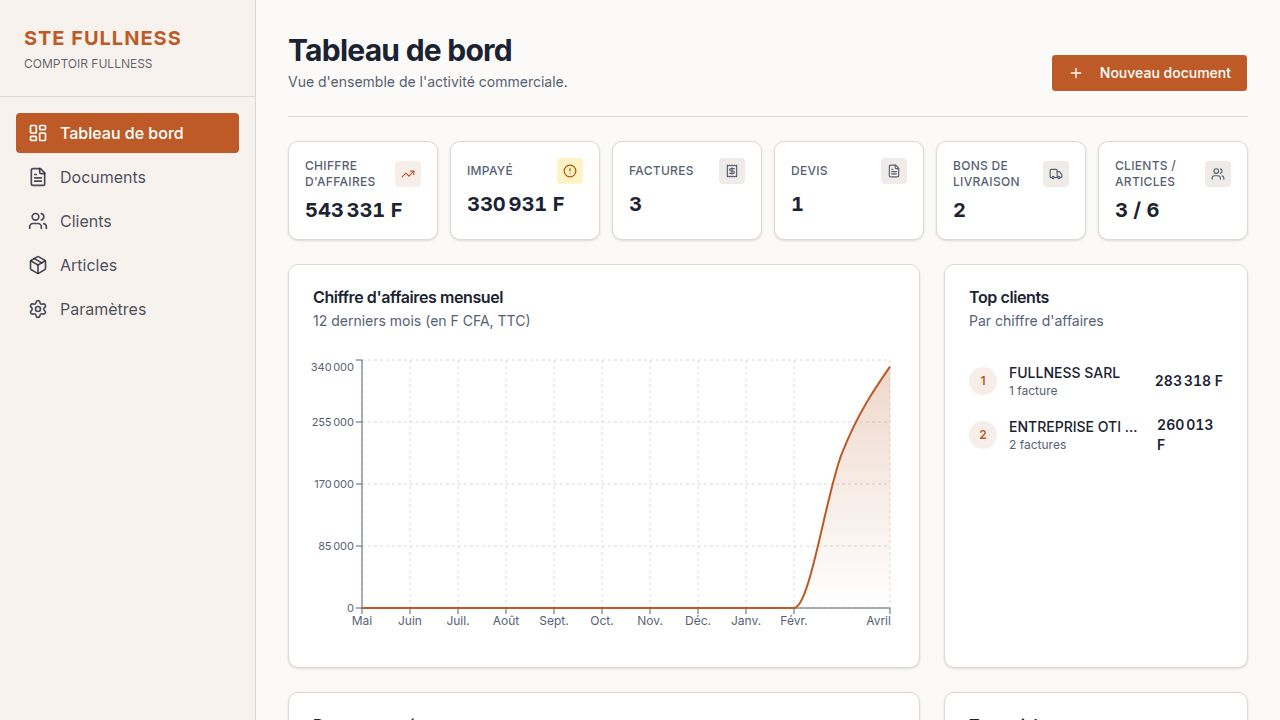
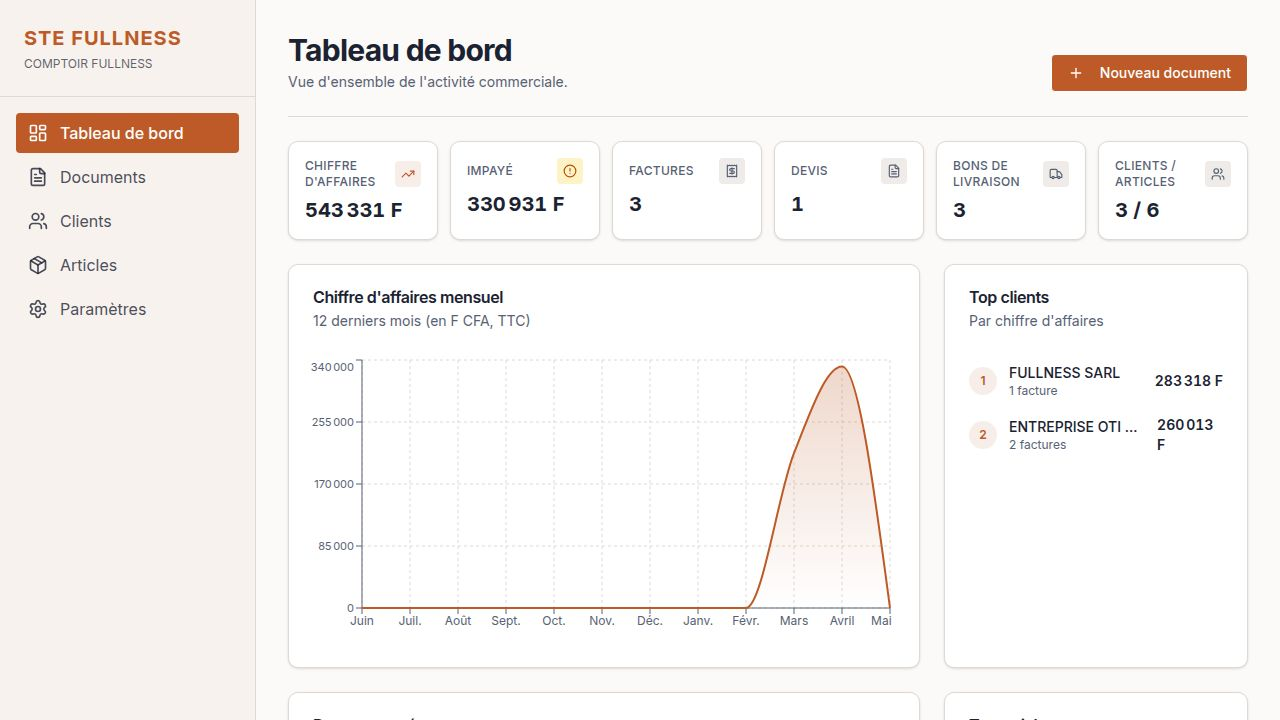
Adjust document print layout to remove TTC price and add TVA percentage
Update print.tsx to remove the PRIX TTC column and reposition the TVA% column after MONTANT HT, adjusting spacer colSpan accordingly.

Replit-Commit-Author: Agent
Replit-Commit-Session-Id: e7d28bcd-8ab8-4950-ac75-5c649883a866
Replit-Commit-Checkpoint-Type: full_checkpoint
Replit-Commit-Event-Id: 750316b9-a37b-468f-b167-56cba7b72282
Replit-Commit-Screenshot-Url: https://storage.googleapis.com/screenshot-production-us-central1/0f608575-ee4e-4d10-a3b1-2b933b149d0d/e7d28bcd-8ab8-4950-ac75-5c649883a866/1pkyckc
Replit-Helium-Checkpoint-Created: true

Changed region(s): [[0.5938, 0.5194, 0.7188, 0.7944], [0.5, 0.825, 0.6875, 0.8861], [0.2812, 0.8556, 0.4688, 0.8861]]

diff --git a/artifacts/gestion-commerciale/src/pages/documents/print.tsx b/artifacts/gestion-commerciale/src/pages/documents/print.tsx
@@ -143,42 +143,34 @@ export default function DocumentPrintPage({ id }: { id: number }) {
               {showPrices && (
                 <>
                   <th className="col-num">PRIX HT</th>
-                  <th className="col-num">TVA%</th>
-                  <th className="col-num">PRIX TTC</th>
                   <th className="col-num">R(%)</th>
                   <th className="col-num">MONTANT HT</th>
+                  <th className="col-num">TVA%</th>
                 </>
               )}
             </tr>
           </thead>
           <tbody>
-            {doc.lines.map((l) => {
-              const prixTtc =
-                doc.tvaPourMemoire || !doc.applyTva
-                  ? l.prixUnitaire
-                  : l.prixUnitaire * (1 + (l.tvaRate ?? 0) / 100);
-              return (
-                <tr key={l.id}>
-                  <td className="col-ref mono">{l.reference}</td>
-                  <td className="col-des">{l.designation}</td>
-                  <td className="col-num">{formatMoney(l.quantite)}</td>
-                  <td className="col-num">{l.unite}</td>
-                  {isBL && <td className="col-num">{l.depot ?? ""}</td>}
-                  {showPrices && (
-                    <>
-                      <td className="col-num">{formatMoneyDecimal(l.prixUnitaire)}</td>
-                      <td className="col-num">{formatMoney(l.tvaRate)}</td>
-                      <td className="col-num">{formatMoneyDecimal(prixTtc)}</td>
-                      <td className="col-num">{formatMoney(l.remisePct)}</td>
-                      <td className="col-num">{formatMoneyDecimal(l.montantHt)}</td>
-                    </>
-                  )}
-                </tr>
-              );
-            })}
+            {doc.lines.map((l) => (
+              <tr key={l.id}>
+                <td className="col-ref mono">{l.reference}</td>
+                <td className="col-des">{l.designation}</td>
+                <td className="col-num">{formatMoney(l.quantite)}</td>
+                <td className="col-num">{l.unite}</td>
+                {isBL && <td className="col-num">{l.depot ?? ""}</td>}
+                {showPrices && (
+                  <>
+                    <td className="col-num">{formatMoneyDecimal(l.prixUnitaire)}</td>
+                    <td className="col-num">{formatMoney(l.remisePct)}</td>
+                    <td className="col-num">{formatMoneyDecimal(l.montantHt)}</td>
+                    <td className="col-num">{l.tvaRate}</td>
+                  </>
+                )}
+              </tr>
+            ))}
             {Array.from({ length: Math.max(0, 12 - doc.lines.length) }).map((_, i) => (
               <tr key={`spacer-${i}`} className="spacer">
-                <td colSpan={isBL ? 5 : 9}>&nbsp;</td>
+                <td colSpan={isBL ? 5 : 8}>&nbsp;</td>
               </tr>
             ))}
           </tbody>